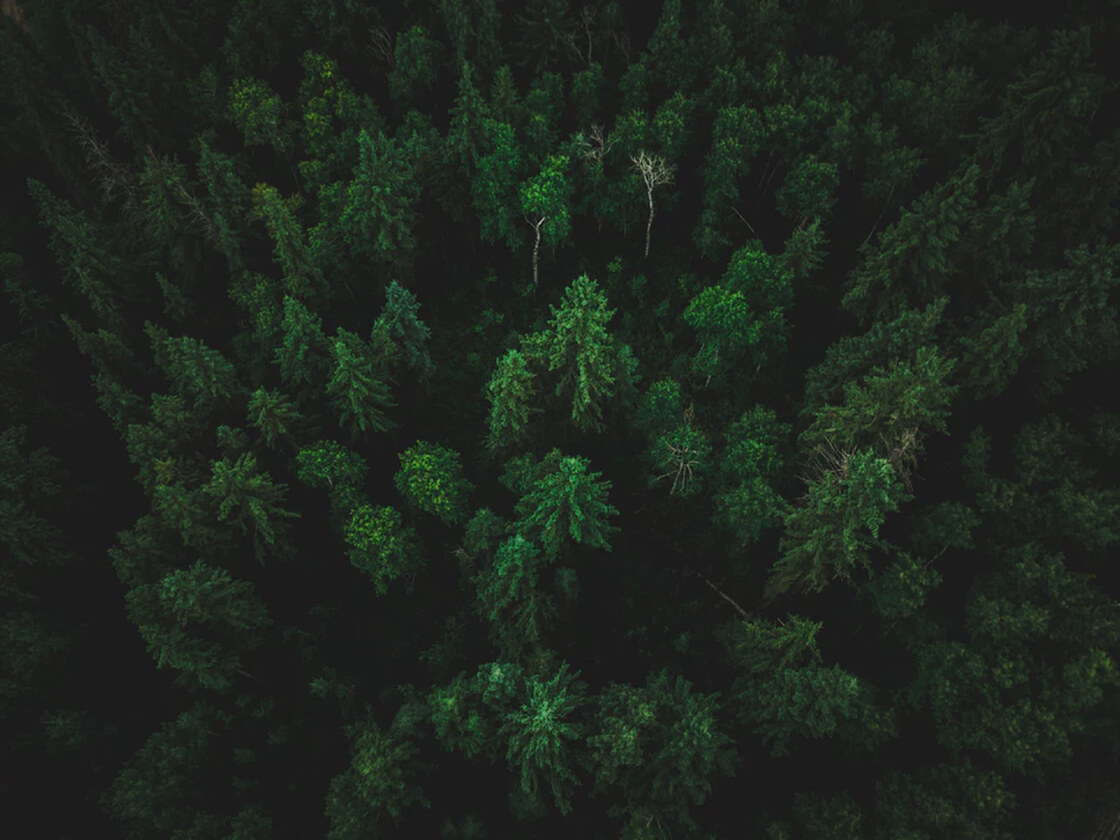
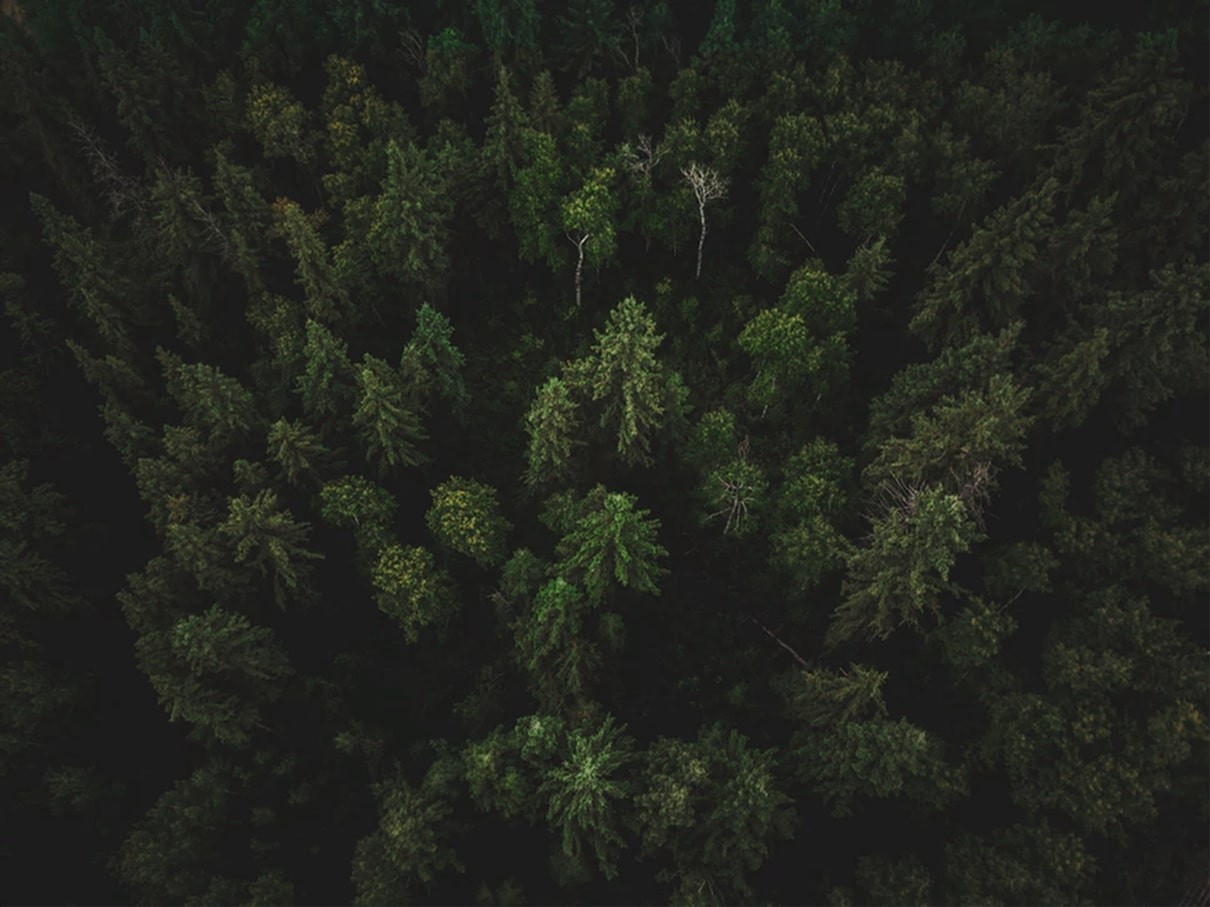
forest update

diff --git a/header.php b/header.php
@@ -50,6 +50,6 @@
     <g clip-path="url(#mask)">
         <image xmlns:xlink="http://www.w3.org/1999/xlink"
                xlink:href="<?= get_template_directory_uri() ?>/assets/built/images/forest.jpg"
-               width="1120px" height="840px"></image>
+               width="847" height="635"></image>
     </g>
 </svg>
